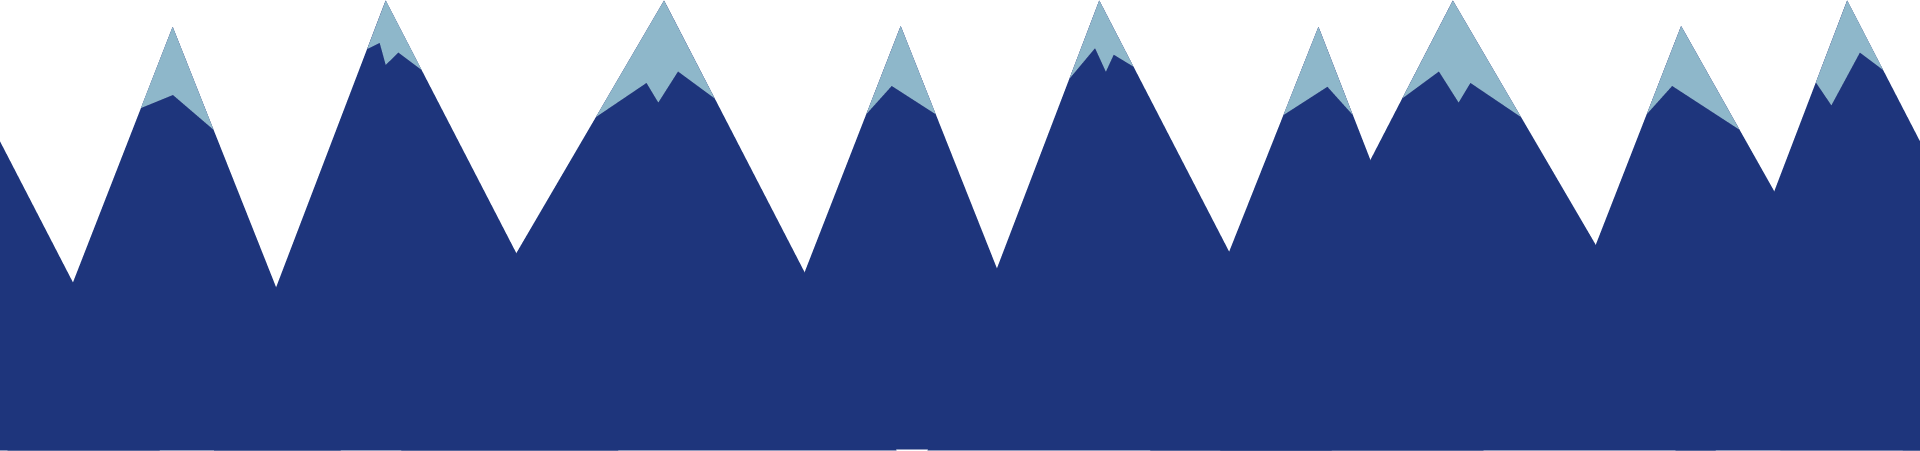
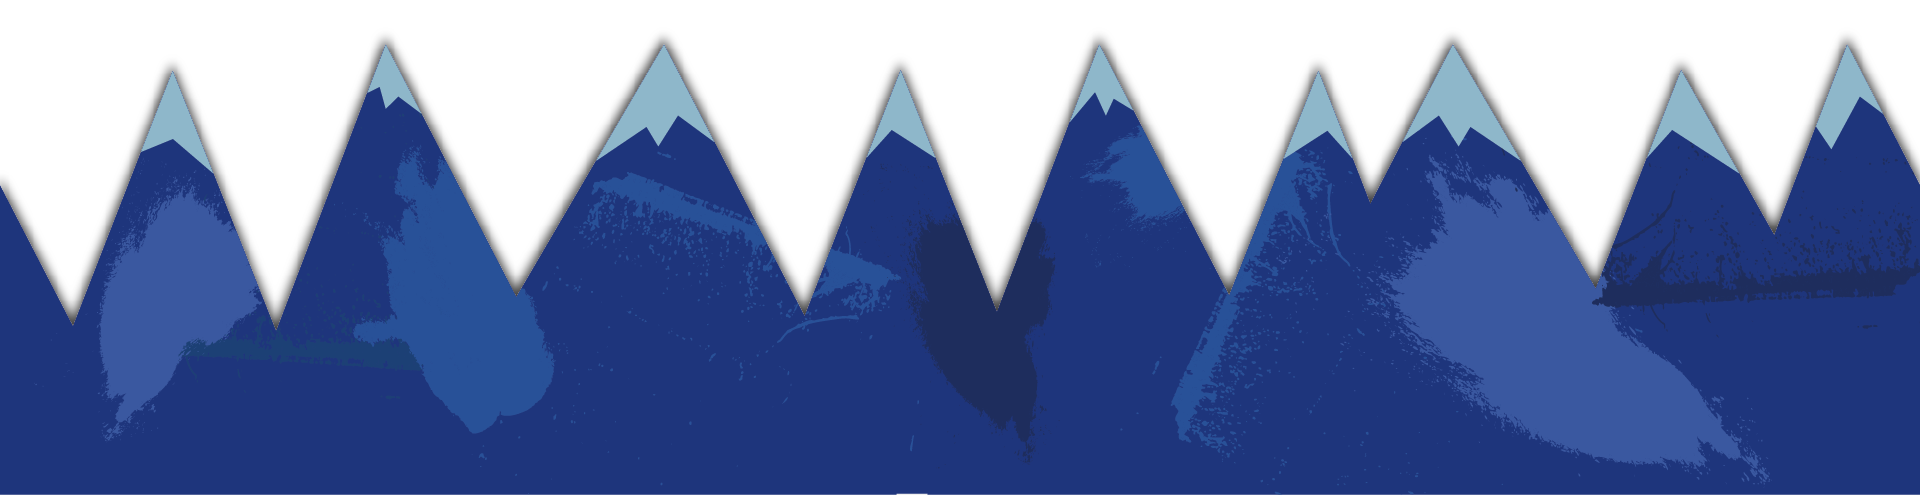
Fixed Hill and Mountain parallax issues

diff --git a/Letter Go/LRBackgroundLayer.m b/Letter Go/LRBackgroundLayer.m
@@ -36,9 +36,9 @@
     [self addChild:self.parallaxManager];
     [self.parallaxManager addParallaxNode:[[LRCloudLayer alloc] init]
                                   toIndex:BackgroundIndex_Sky];
-    [self.parallaxManager addParallaxNode:[LRParallaxNode nodeWithImageNamed:@"Background_Mountains2.png"]
+    [self.parallaxManager addParallaxNode:[LRParallaxNode nodeWithImageNamed:@"Background_Mountains.png"]
                                   toIndex:BackgroundIndex_Mountains];
-    [self.parallaxManager addParallaxNode:[LRParallaxNode nodeWithImageNamed:@"Background_Hills2.png"]
+    [self.parallaxManager addParallaxNode:[LRParallaxNode nodeWithImageNamed:@"Background_Hills.png"]
                                   toIndex:BackgroundIndex_Hills];
     [self.parallaxManager addParallaxNode:[[LRGrassLayer alloc] init]
                                   toIndex:BackgroundIndex_Grass];
@@ -50,22 +50,22 @@
         CGFloat grassHeightOffset = -2;
         switch (i) {
             case BackgroundIndex_Sky:
-                layer.yOffset = -5;
+                layer.xOffset = -10;
                 layer.zPosition = zPos_SkyLayer;
                 break;
             case BackgroundIndex_Mountains:
-                layer.yOffset = -2;
+                layer.xOffset = 0;
                 layer.zPosition = zPos_MountainLayer;
                 break;
             case BackgroundIndex_Hills:
                 layer.position = CGPointMake(layer.position.x, [layer repeatingSprite].size.height/4 - self.size.height/2);
-                layer.yOffset = -10;
+                layer.xOffset = -6;
                 layer.zPosition = zPos_HillsLayer;
                 break;
             case BackgroundIndex_Grass:
                 layer.position = CGPointMake(layer.position.x, [layer repeatingSprite].size.height/4 - self.size.height/2 + kSectionHeightLetterSection + grassHeightOffset);
                 layer.zPosition = zPos_GrassLayer;
-                layer.yOffset = -10;
+                layer.xOffset = -10;
                 break;
             default:
                 break;

diff --git a/Letter Go/LRParallaxNode.m b/Letter Go/LRParallaxNode.m
@@ -29,7 +29,7 @@
     if (self = [super init])
     {
         self.imageName = name;
-        self.yOffset = 0;
+        self.xOffset = 0;
         [self loadScrollingSprites];
     }
     return self;
@@ -57,19 +57,20 @@
 
 - (void) moveNodeBy:(CGFloat)distance
 {
-    BOOL swap = FALSE;
-    for (SKSpriteNode *sprite in self.scrollingSprites) {
-        sprite.position = CGPointMake(sprite.position.x + distance, sprite.position.y);
-        //If the sprite is off screen, move it to the back
-        if (sprite == [self.scrollingSprites objectAtIndex:0] &&
-            sprite.position.x < 0 - self.scene.size.width - sprite.size.width/2)
-        {
-            SKSpriteNode *secondSprite = [self.scrollingSprites objectAtIndex:1];
-            sprite.position = CGPointMake(secondSprite.position.x + sprite.size.width + self.yOffset, sprite.position.y);
-            swap = TRUE;
-        }
+    SKSpriteNode *sprite1 = [self.scrollingSprites objectAtIndex:0];
+    SKSpriteNode *sprite2 = [self.scrollingSprites objectAtIndex:1];
+
+    //Shift the sprites down
+    sprite1.position = CGPointMake(sprite1.position.x + distance, sprite1.position.y);
+    sprite2.position = CGPointMake(sprite2.position.x + distance, sprite2.position.y);
+    
+    //And if they have gone off screen, put them to the other side of the sprite that is still on screen
+    if (sprite1.position.x < -sprite1.size.width) {
+        sprite1.position = CGPointMake(sprite2.position.x + sprite1.size.width, sprite1.position.y);
     }
-    if (swap) [self.scrollingSprites exchangeObjectAtIndex:0 withObjectAtIndex:1];
+    if (sprite2.position.x < -sprite2.size.width) {
+        sprite2.position = CGPointMake(sprite1.position.x + sprite2.size.width, sprite2.position.y);
+    }
 }
 
 @end

diff --git a/Letter Go/LRCurveBuilder.m b/Letter Go/LRCurveBuilder.m
@@ -51,8 +51,8 @@ typedef enum {
     
     for (int i = 0; i < swingCount; i++)
     {
-        CGPoint start = CGPointMake(0, 0);
-        CGPoint c1 = CGPointMake(0, 0);
+        CGPoint start = CGPointZero;
+        CGPoint c1 = CGPointZero;
         CGPoint c2 = CGPointMake(0, nextPosition.y);
         
         LRBezierPath *letterPath = [LRCurveBuilder bezierWithStart:start c1:c1 c2:c2 end:nextPosition];
@@ -89,8 +89,8 @@ typedef enum {
     if ([[LRDifficultyManager shared] mailmanScreenSide] == MailmanScreenLeft)
         distance *= -1;
     
-    CGPoint start = CGPointMake(0, 0);
-    CGPoint c1 = CGPointMake(0, 0);
+    CGPoint start = CGPointZero;
+    CGPoint c1 = CGPointZero;
     CGPoint c2 = CGPointMake(distance, -15);
     CGPoint end = CGPointMake(distance, 0);
     

diff --git a/Letter Go/LRGrassLayer.m b/Letter Go/LRGrassLayer.m
@@ -25,7 +25,7 @@
     if (self = [super init])
     {
         self.size = CGSizeMake(SCREEN_WIDTH * 3, kParallaxHeightGrass);
-        self.yOffset = 0;
+        self.xOffset = 0;
         self.envelopeArray = [NSMutableArray array];
         
         [self addGrassSprites];
@@ -70,7 +70,7 @@
             sprite.position.x < 0 - self.scene.size.width - sprite.size.width/2)
         {
             SKSpriteNode *backSprite = [self.grassSpriteArray lastObject];
-            sprite.position = CGPointMake(backSprite.position.x + sprite.size.width + self.yOffset, sprite.position.y);
+            sprite.position = CGPointMake(backSprite.position.x + sprite.size.width + self.xOffset, sprite.position.y);
             swapGrass = TRUE;
         }
     }

diff --git a/Letter Go/LRLetterSlot.m b/Letter Go/LRLetterSlot.m
@@ -54,7 +54,7 @@
         if ([incomingBlock parent])
             [incomingBlock removeFromParent];
         _currentBlock = incomingBlock;
-        _currentBlock.position = CGPointMake(0, 0);
+        _currentBlock.position = CGPointZero;
         [self addChild:_currentBlock];
     }
     _currentBlock.zPosition = zPos_SectionBlock;

diff --git a/Letter Go/LRParallaxNode.h b/Letter Go/LRParallaxNode.h
@@ -16,6 +16,6 @@
 - (void) moveNodeBy:(CGFloat)distance;
 
 @property (nonatomic) CGFloat relativeSpeed;
-@property (nonatomic) CGFloat yOffset;
+@property (nonatomic) CGFloat xOffset;
 
 @end
